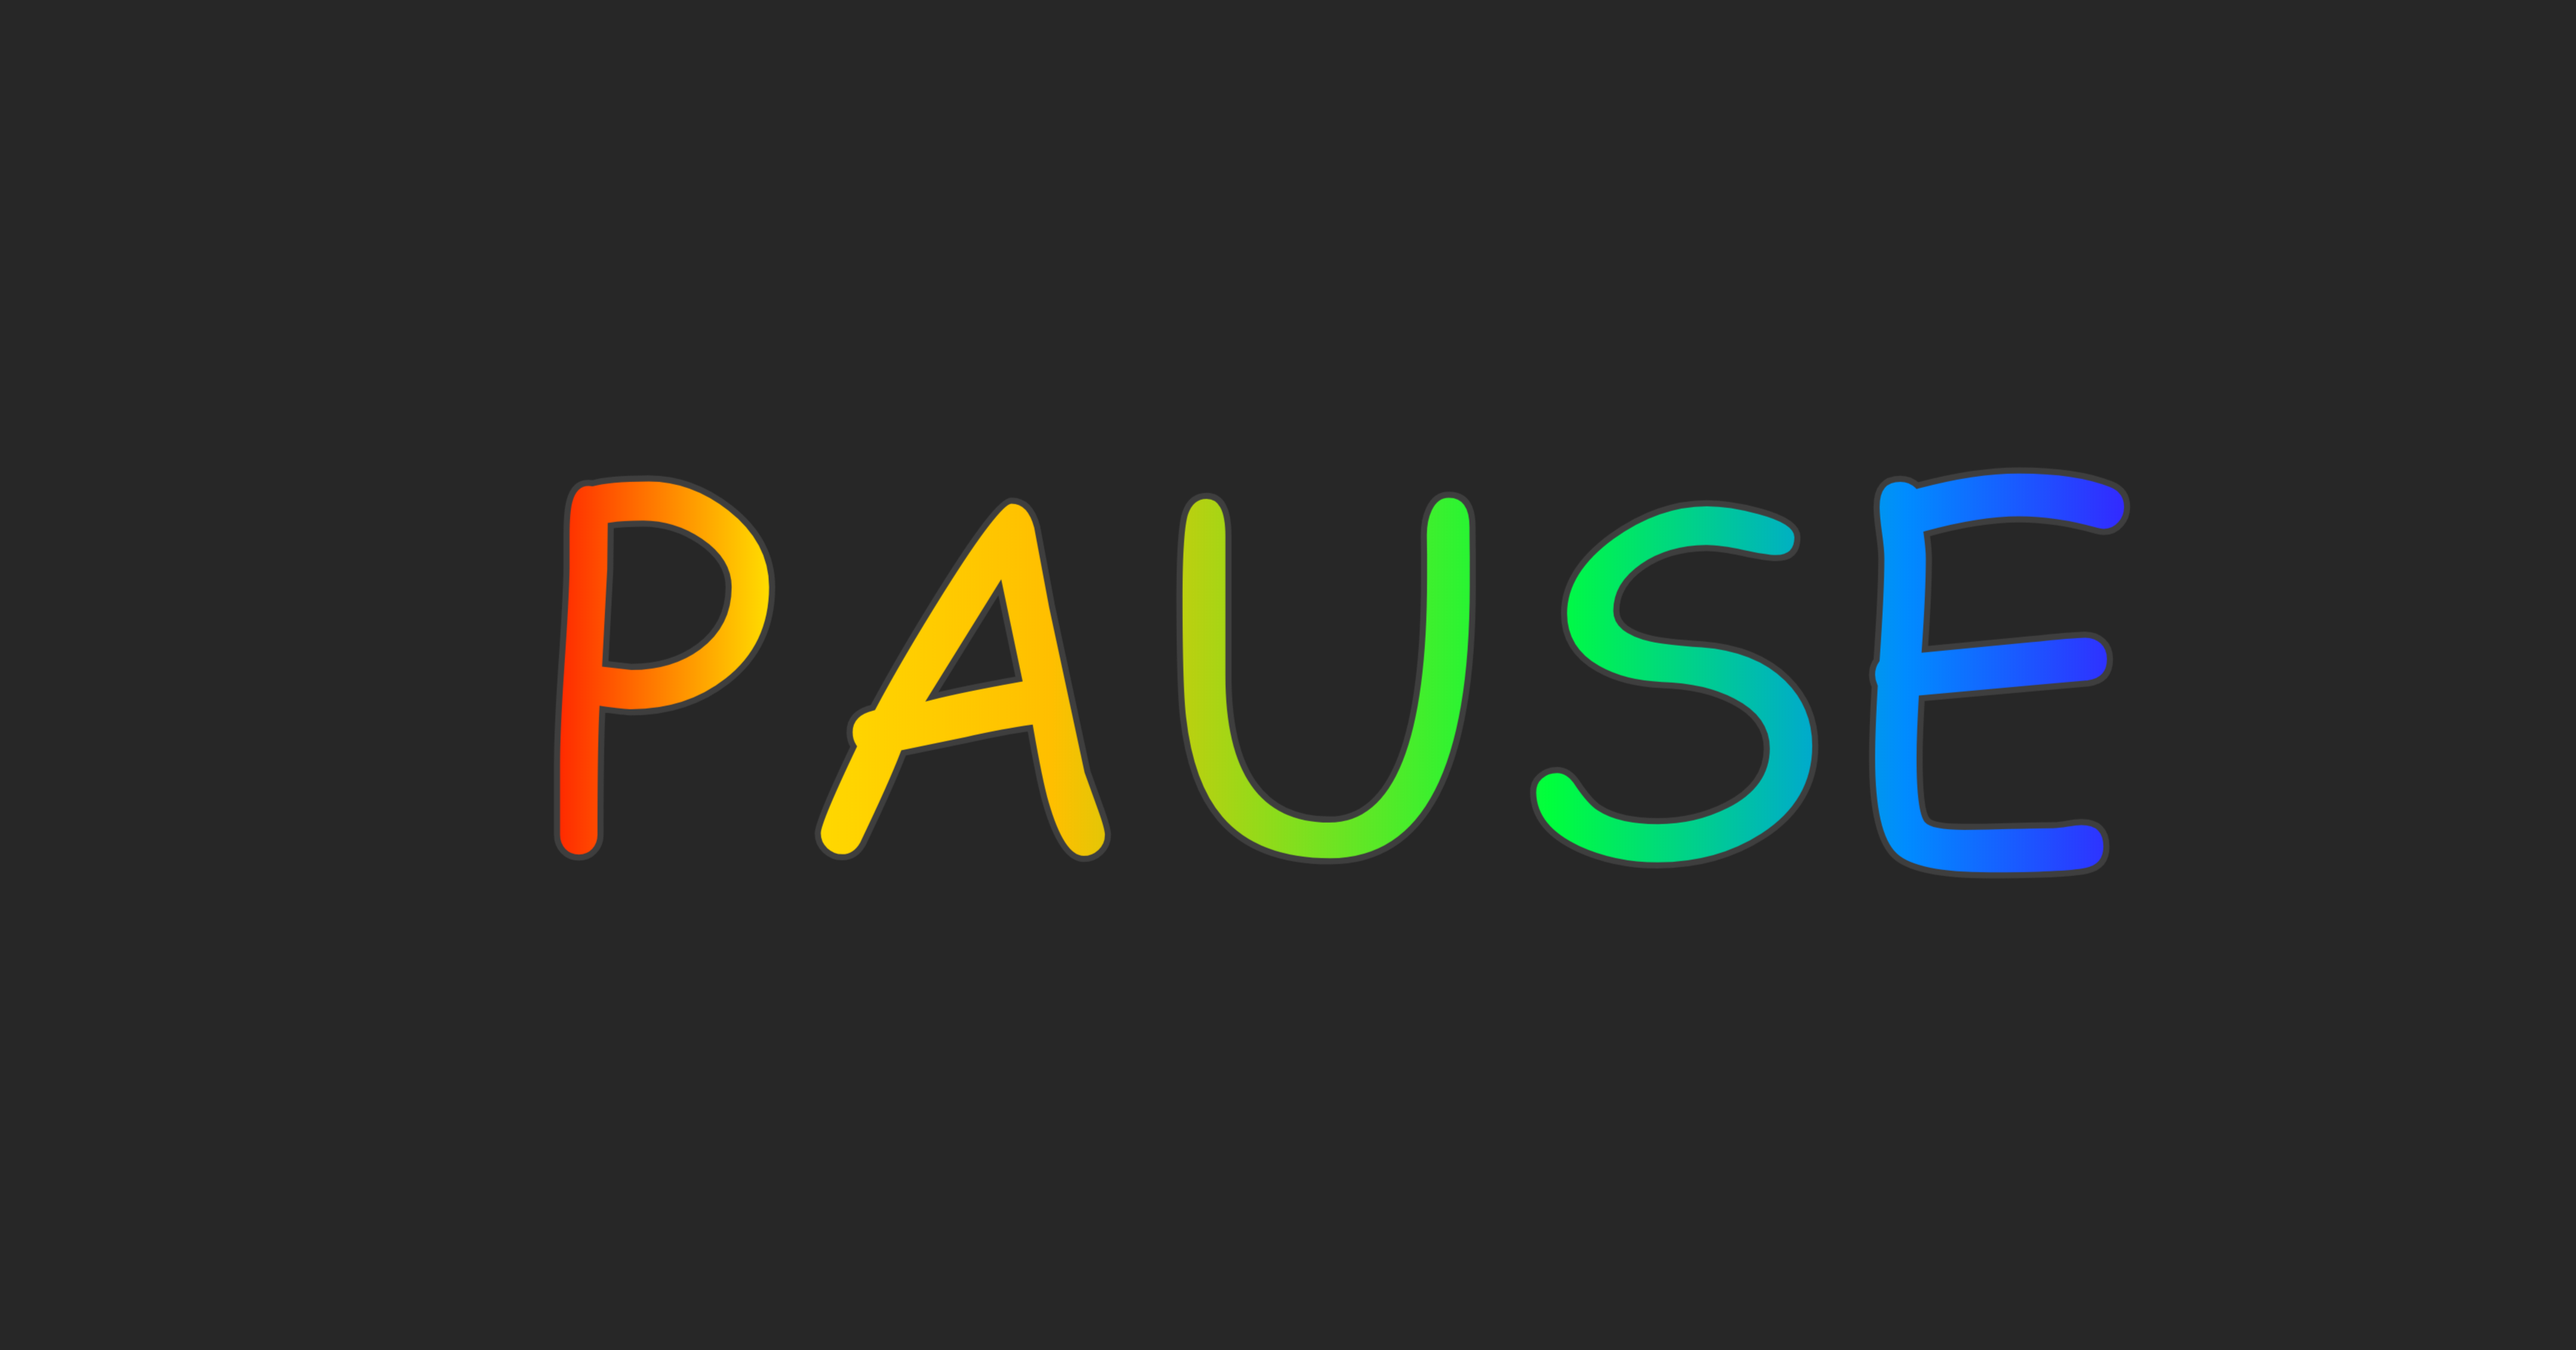
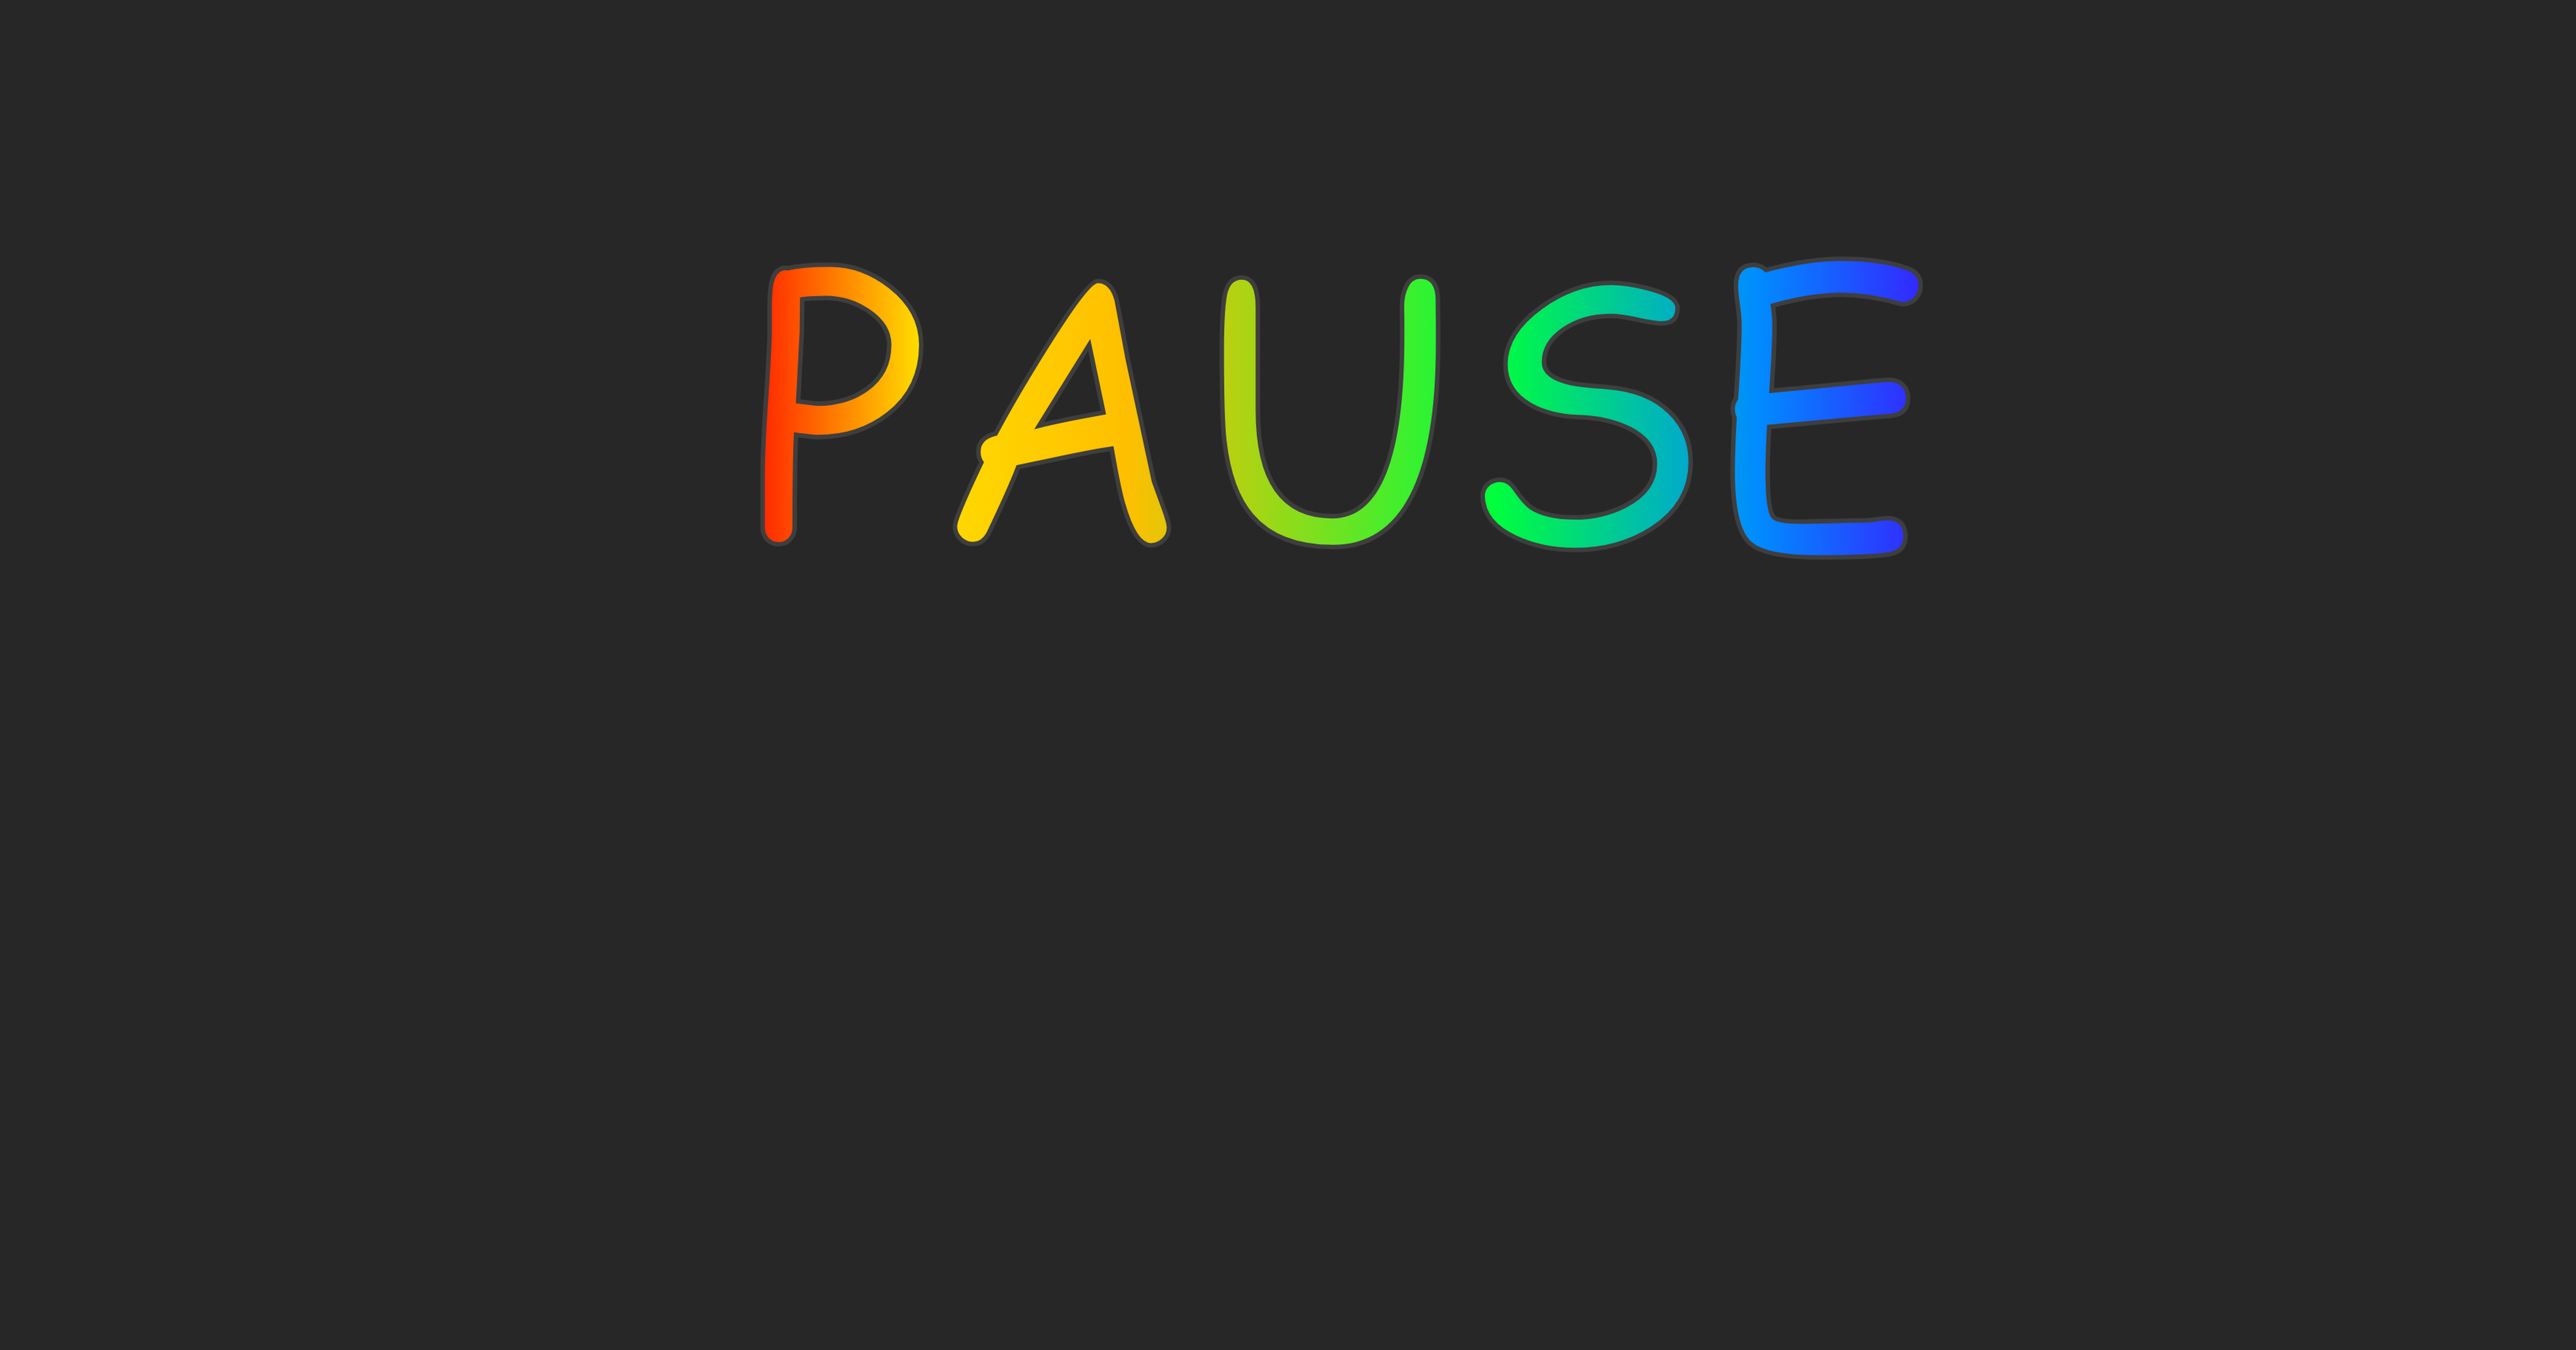
Commit: Final Push today UUUUGH

Changed region(s): [[0.2174, 0.1843, 0.8384, 0.6451]]

diff --git a/src/Gui/Label.java b/src/Gui/Label.java
@@ -29,7 +29,6 @@ public class Label extends JLabel implements ActionListener {
         super.paintComponent(g);
         Graphics2D g2d = (Graphics2D) g;
         g2d.setRenderingHint(RenderingHints.KEY_ANTIALIASING, RenderingHints.VALUE_ANTIALIAS_ON);
-
         // Startscreen
         if(Var.gameState.equals("homescreen") || Var.gameState.equals("startup")) {
 
@@ -37,32 +36,25 @@ public class Label extends JLabel implements ActionListener {
             DrawHelper.drawBackgroundImage("Startscreen", g);
             DrawHelper.startButton.drawButton("gamestate", "singleplayer", 400, Var.width/2, (Var.height/10)*6, g);
             DrawHelper.optButton.drawButton("gamestate", "options1", 400, Var.width/2, (Var.height/10)*8, g);
+            DrawHelper.helpButton.drawButton("gamestate", "controls", 100, Var.width-55, 50, g);
         // Singlepla8er
         } else if(Var.gameState.equals("options1")) {
-            /*
-            OPTIONEN
-
-            fps
-            Größe des Spielfelds (m und n)
-            ghostmode
-            ARR und DAS
-            Themes ?
-
-            Music
-            Lautstärke der Musik
-            Soundeffekts an aus
-            Lautstärke der Soundeffects
-            * */
-
-            // Draw Background
             DrawHelper.drawBackgroundImage("Singleplayer", g);
-            DrawHelper.drawCheckbox("Ghostmodus", Var.fontColor, Var.test, Var.width/7, (int)((Var.width/5)*2.5), (Var.height/15)*2, Var.width/30, "Comic Sans MS",() -> Var.test = !Var.test, g);
-            Var.m = (int)DrawHelper.drawSlider("Breite: "+Var.m, Var.fontColor, Var.m, Var.width/7, (int)((Var.width/5)*2.5), (Var.height/15)*3, Var.width/30, Var.width/3, 2, 0, 30, "Comic Sans MS", g);
-            Var.n = (int)DrawHelper.drawSlider("Länge:  "+Var.n, Var.fontColor, Var.n, Var.width/7, (int)((Var.width/5)*2.5), (Var.height/15)*5, Var.width/30, Var.width/3, 2, 0, 30, "Comic Sans MS", g);
+            DrawHelper.drawCheckbox("Ghostmodus:", Var.fontColor, Var.ghostmode, Var.width/7, (int)((Var.width/5)*2.5), (Var.height/15)*2, Var.width/30, "Comic Sans MS",() -> Var.ghostmode = !Var.ghostmode, g);
+            Var.m = (int)DrawHelper.drawSlider("Höhe: "+Var.m, Var.fontColor, Var.m, Var.width/7, (int)((Var.width/5)*2.5), (Var.height/15)*3, Var.width/30, Var.width/3, 2, 0, 30, "Comic Sans MS", g);
+            Var.tilesY = Var.m-4;
+            Var.n = (int)DrawHelper.drawSlider("Breite:  "+Var.n, Var.fontColor, Var.n, Var.width/7, (int)((Var.width/5)*2.5), (Var.height/15)*5, Var.width/30, Var.width/3, 2, 0, 30, "Comic Sans MS", g);
+            Var.tilesX = Var.n;
             Var.ARR = round(DrawHelper.drawSlider("ARR: "+Var.ARR, Var.fontColor, Var.ARR, Var.width/7, (int)((Var.width/5)*2.5), (Var.height/15)*7, Var.width/30, Var.width/3, 0.1, 0, 6, "Comic Sans MS", g), 1);
             Var.DAS = round(DrawHelper.drawSlider("DAS:  "+Var.DAS, Var.fontColor, Var.DAS, Var.width/7, (int)((Var.width/5)*2.5), (Var.height/15)*9, Var.width/30, Var.width/3, 0.1, 0, 20, "Comic Sans MS", g), 1);
             Var.volume = (int)DrawHelper.drawSlider("Lautstärke:  "+Var.volume, Var.fontColor, Var.volume, Var.width/7, (int)((Var.width/5)*2.5), (Var.height/15)*11, Var.width/30, Var.width/3, 5, 0, 100, "Comic Sans MS", g);
             DrawHelper.enterButton.drawButton("gamestate", "startup", 300, Var.width/2, (Var.height/15)*13, g);
+        } else if(Var.gameState.equals("controls")) {
+            DrawHelper.drawBackgroundImage("Singleplayer", g);
+            DrawHelper.drawBackgroundImage("controls", g);
+            DrawHelper.enterButton.drawButton("gamestate", "startup", 300, Var.width/2, (Var.height/15)*14, g);
+
+
         } else if(Var.gameState.equals("singleplayer") || Var.gameState.equals("pause") || Var.gameState.equals("gameover")) {
 
             // Draw Background
@@ -85,7 +77,9 @@ public class Label extends JLabel implements ActionListener {
             // Draw Pausescreen
             if (Var.gameState.equals("pause")) {
                 DrawHelper.drawBackgroundImage("Pausescreen", g);
-                DrawHelper.restartButton.drawButton("restart", null, 400, Var.width/2, Var.height-Var.height/4, g);
+                DrawHelper.restartButton.drawButton("restart", null, 400, Var.width/2, (Var.height/20)*10, g);
+                DrawHelper.resButton.drawButton("gamestate", "singleplayer", 400, Var.width/2, (Var.height/20)*14, g);
+                DrawHelper.menuButton.drawButton("gamestate", "startup", 400, Var.width/2, (Var.height/20)*18, g);
             }
             // Draw Gameover-screen
             else if (Var.gameState.equals("gameover")) {

diff --git a/src/Gui/DrawHelper.java b/src/Gui/DrawHelper.java
@@ -14,6 +14,10 @@ public class DrawHelper {
     public static DrawHelper restartButton = new DrawHelper("btn_restartgame", "btn_restartgame_pressed","btn_restartgame_hover");
     public static DrawHelper enterButton = new DrawHelper("btn_enter", "btn_enter_click","btn_enter_hover");
     public static DrawHelper optButton = new DrawHelper("btn_opt", "btn_opt_click","btn_opt_hover");
+    public static DrawHelper helpButton = new DrawHelper("btn_help", "btn_help_click","btn_help_hover");
+    public static DrawHelper resButton = new DrawHelper("btn_res", "btn_res_click","btn_res_hover");
+    public static DrawHelper menuButton = new DrawHelper("btn_menu", "btn_menu_click","btn_menu_hover");
+
 
     //public object specific variables
     public int elementWidth, elementHeight, elementX, elementY;

diff --git a/src/Game/GameStateHandler.java b/src/Game/GameStateHandler.java
@@ -41,6 +41,7 @@ public class GameStateHandler {
 //                Effects.Sounds.playSound("tetris.wav", 0.5);
                 break;
             case "pause":
+            case "controls":
             case "options1":
                 Mechanics.resetTimer();
                 Effects.Sounds.playSound("/SFX/NES - pause.mp3", 1.0, false);
